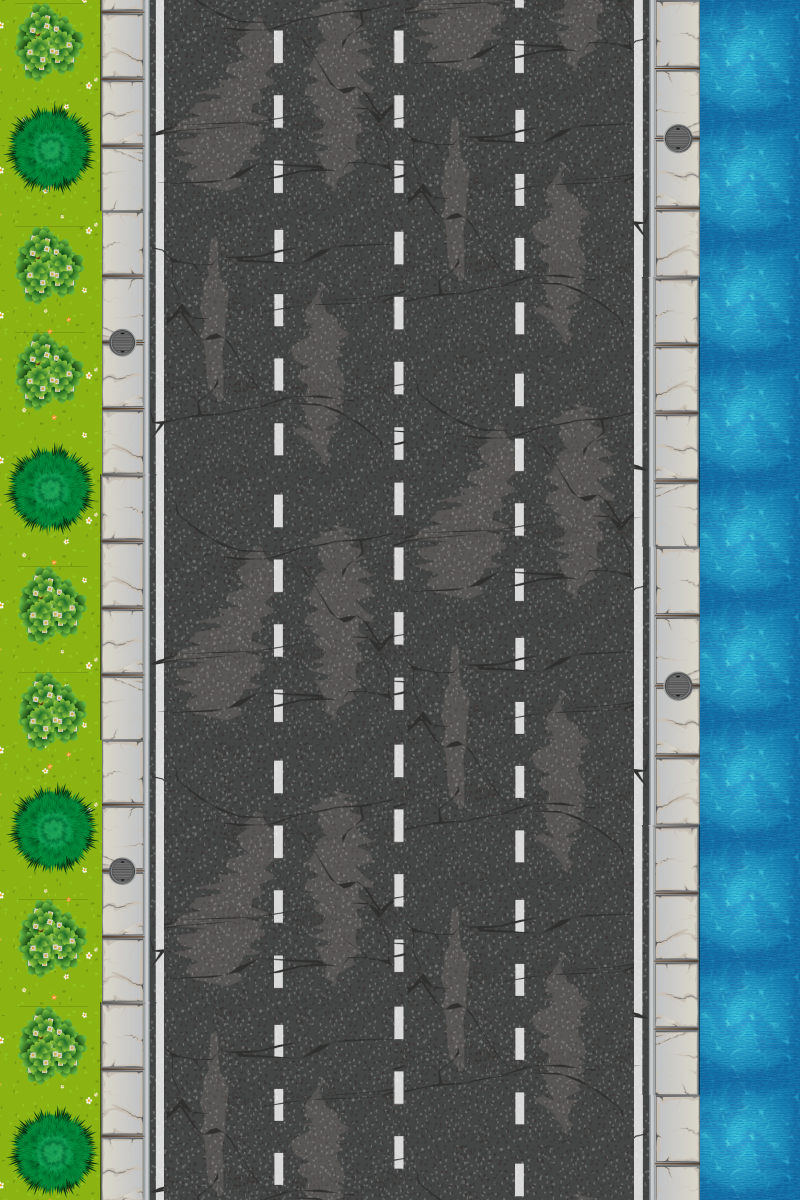
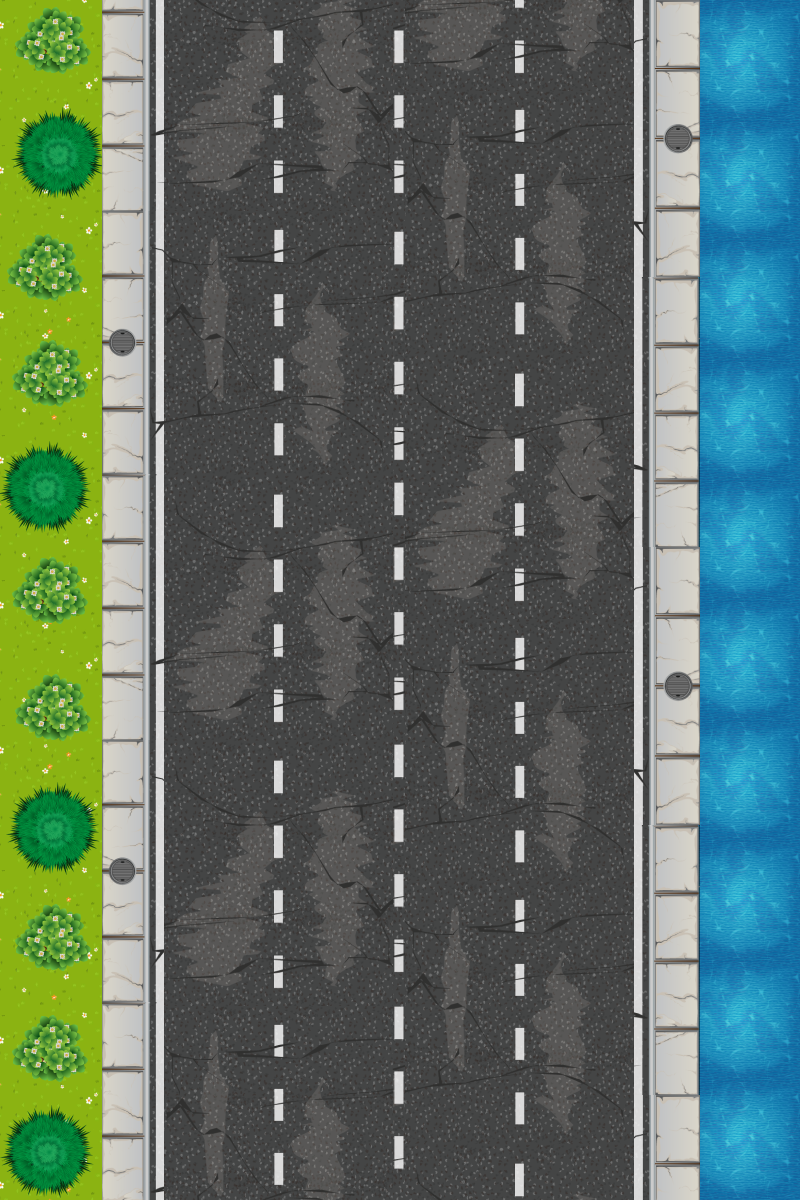
fixed a bit of the drift in the map scrolling

Changed region(s): [[0.0, 0.0, 0.125, 0.3392], [0.0, 0.74, 0.125, 1.0], [0.0, 0.37, 0.125, 0.6475]]

diff --git a/game/game.py b/game/game.py
@@ -102,14 +102,16 @@ def car_racing():
 
             keys = pygame.key.get_pressed()
             if keys[pygame.K_LEFT] or keys[pygame.K_a]:
-                playerCar.moveLeft(8)
+                if playerCar.rect.x - 8 > 160:
+                    playerCar.moveLeft(8)
             if keys[pygame.K_RIGHT] or keys[pygame.K_d]:
-                playerCar.moveRight(8)
+                if playerCar.rect.x + 8 < 590:
+                    playerCar.moveRight(8)
             if keys[pygame.K_UP] or keys[pygame.K_w]:
-                if speed + 0.05 < 3:
+                if speed + 0.05 < 3: # setting max speed
                     speed += 0.05
             if keys[pygame.K_DOWN] or keys[pygame.K_s]:
-                if speed - 0.05 > 0.5:
+                if speed - 0.05 > 0.5: # setting min speed
                     speed -= 0.05
 
 
@@ -130,11 +132,11 @@ def car_racing():
             
             # Infinite scrolling map
 
-            if map2.rect.y > -500 and map2.rect.y < -100:
-                map1.rect.y = map2.speed + map2.rect.y - 1200
+            if map2.rect.y > -400 and map2.rect.y < -100:
+                map1.rect.y = 100 + map2.rect.y - 1200
 
-            if map1.rect.y > -500 and map1.rect.y < -100:
-                map2.rect.y = map1.rect.y - 1200
+            if map1.rect.y > -400 and map1.rect.y < -100:
+                map2.rect.y = 100 + map1.rect.y - 1200
                 
             map1.moveDown(speed)
             map2.moveDown(speed)
